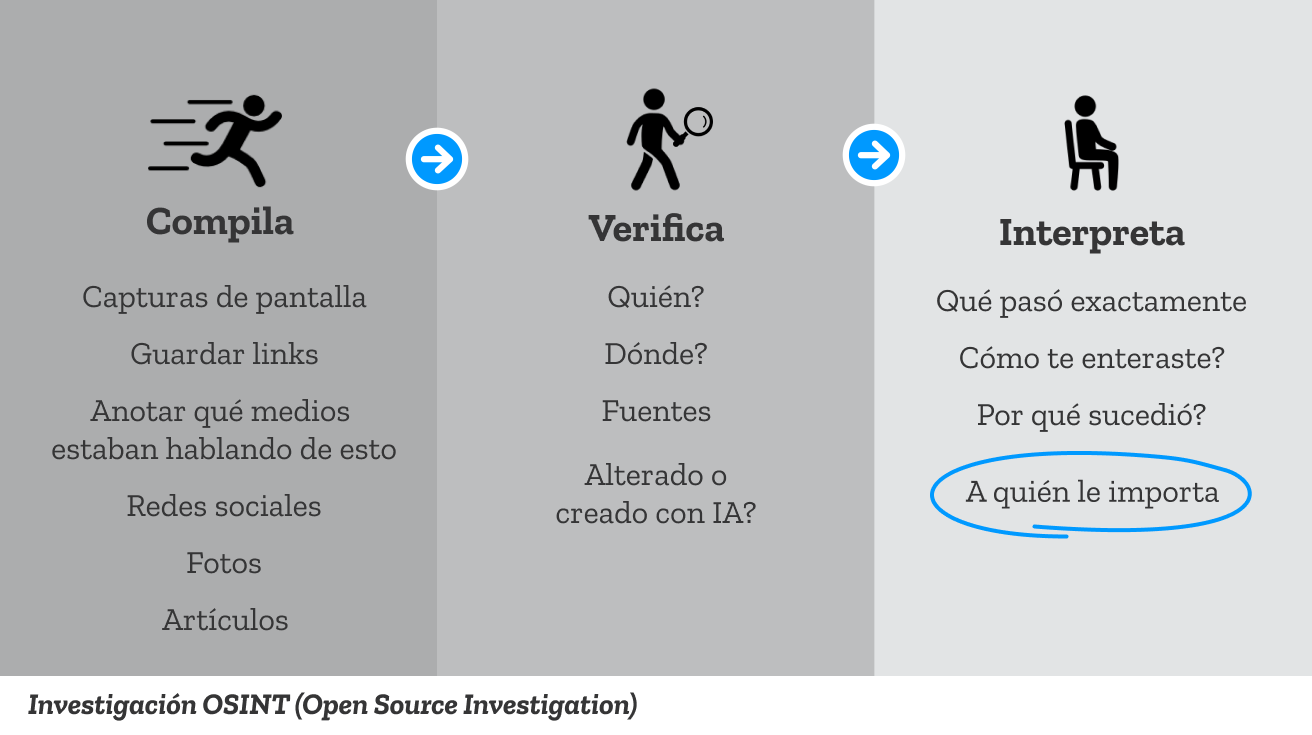
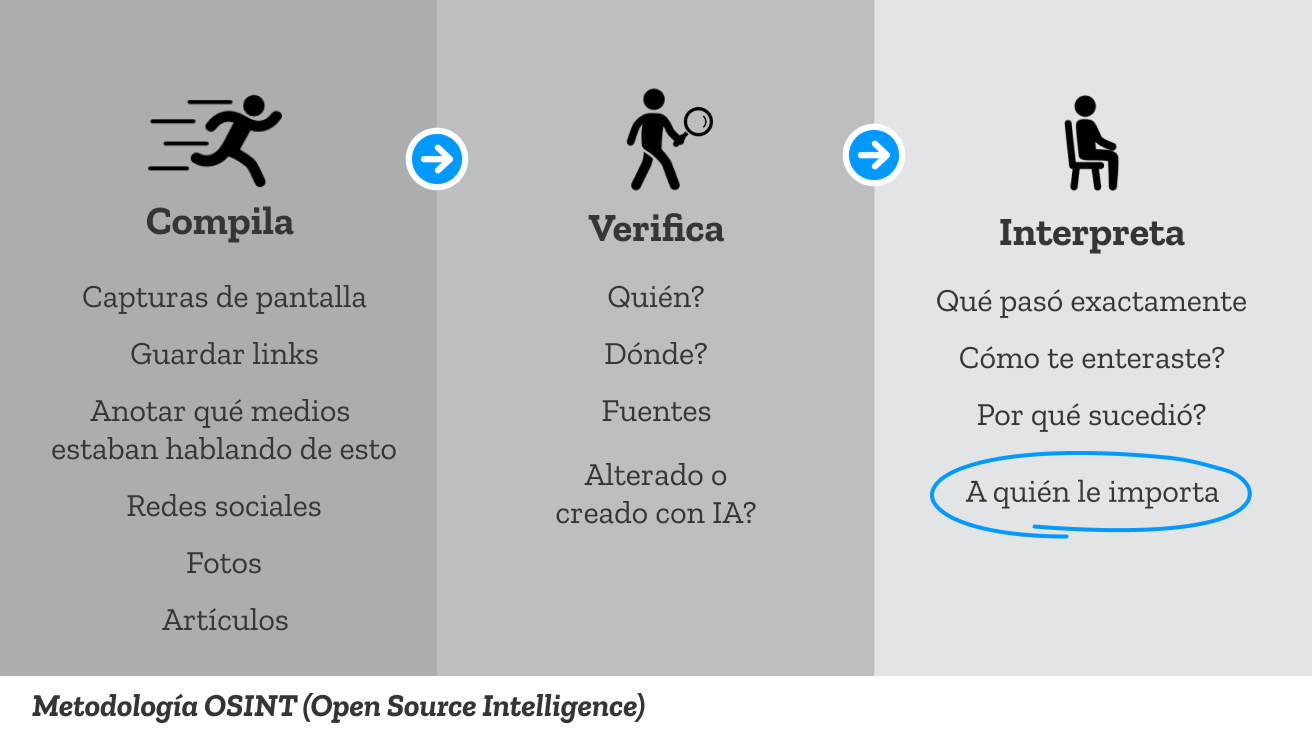
actualizar imagen

Changed region(s): [[0.0, 0.9279, 0.5, 0.9878]]

diff --git a/_posts/2026-05-17-opiniones-internet.html b/_posts/2026-05-17-opiniones-internet.html
@@ -28,7 +28,7 @@ description: Aprendamos cómo realizar una investigación OSINT (Open Source Int
 <p>Una vez publiques tu investigación, sé transparente sobre tus fuentes y sobre lo que interpretaste: Evita generalizar y sé precabide con tus porcentajes de confianza.</p>
 
 <hr>
-<p><img src="/assets/img/posts/investigation-osint.png" alt="Diagrama de la investigación OSINT, describiendo de forma gráfica los pasos de Compilar, verificar e interpretar"></p>
+<p><img src="/assets/img/posts/investigation-osint.png?1.0" alt="Diagrama de la investigación OSINT, describiendo de forma gráfica los pasos de Compilar, verificar e interpretar"></p>
 <hr>
 <h2>Fuentes</h2>
 <p><a href="https://www.tiktok.com/@the_under_report/video/7633157856690261268" target="_blank" rel="noopener noreferrer">How to investigate online</a> Video del periodista Eric Czuleger (con el que no estoy de acuerdo en muchísimas cosas, pero acá si se aventó unos factos)</p>